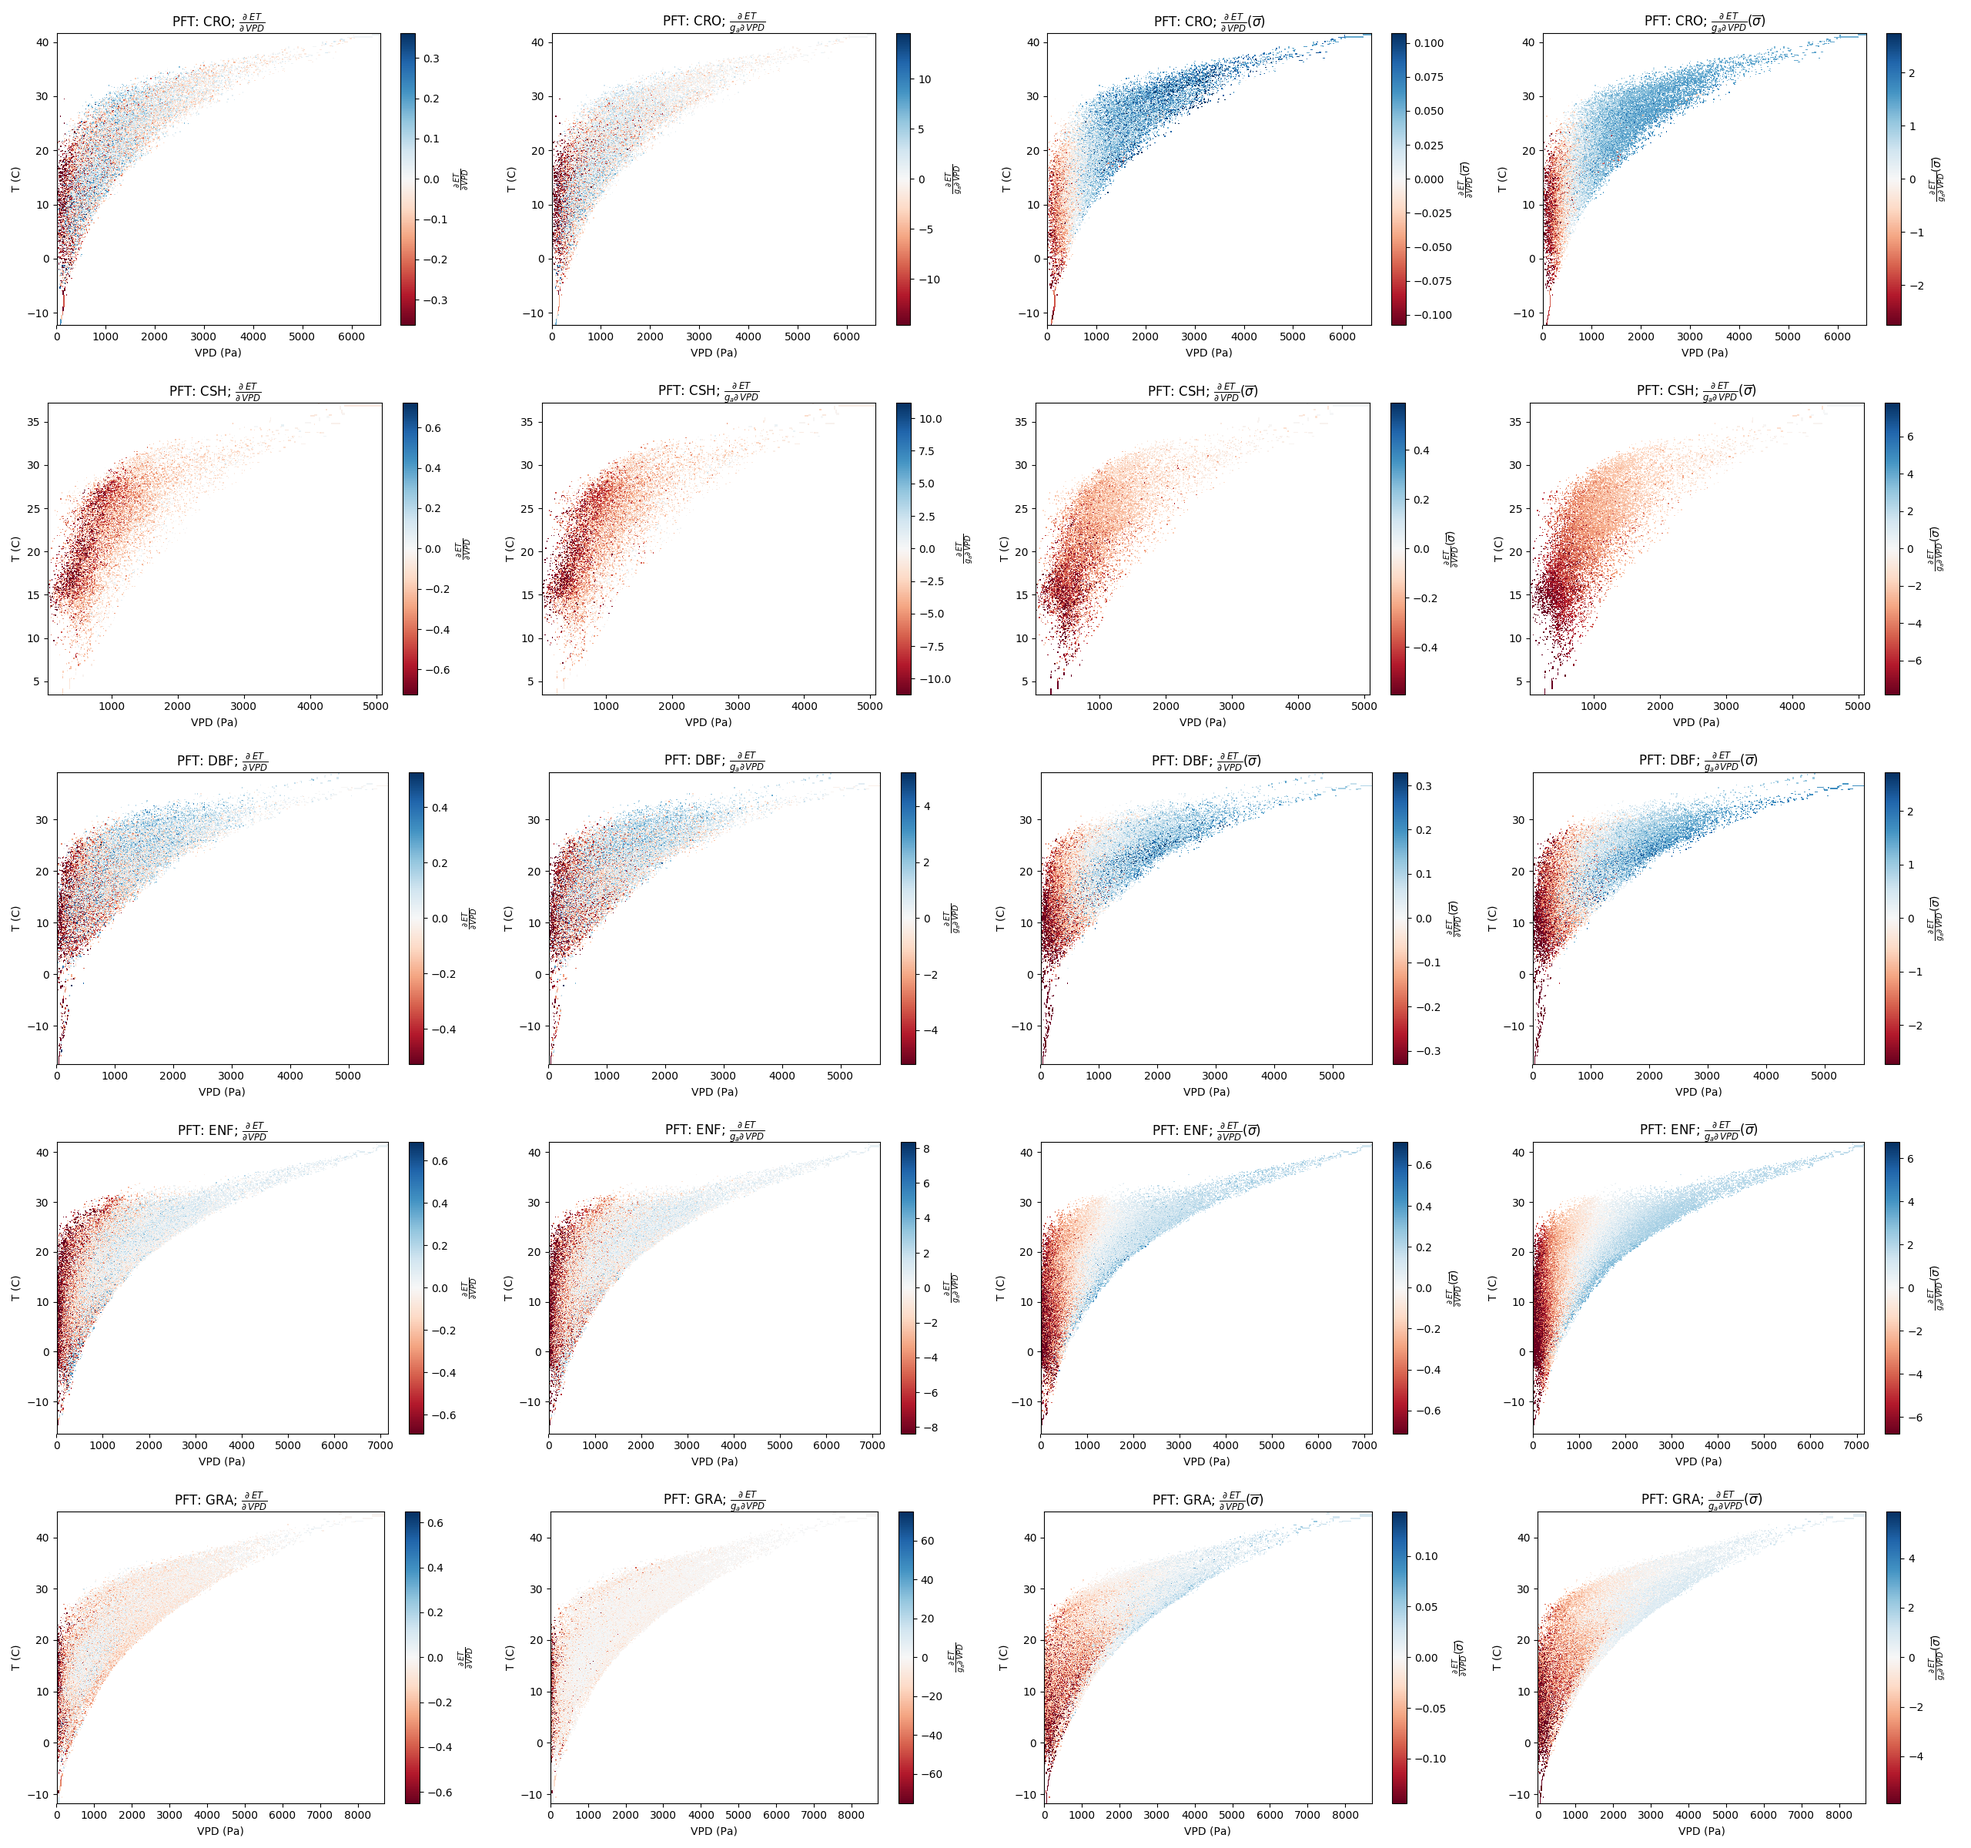
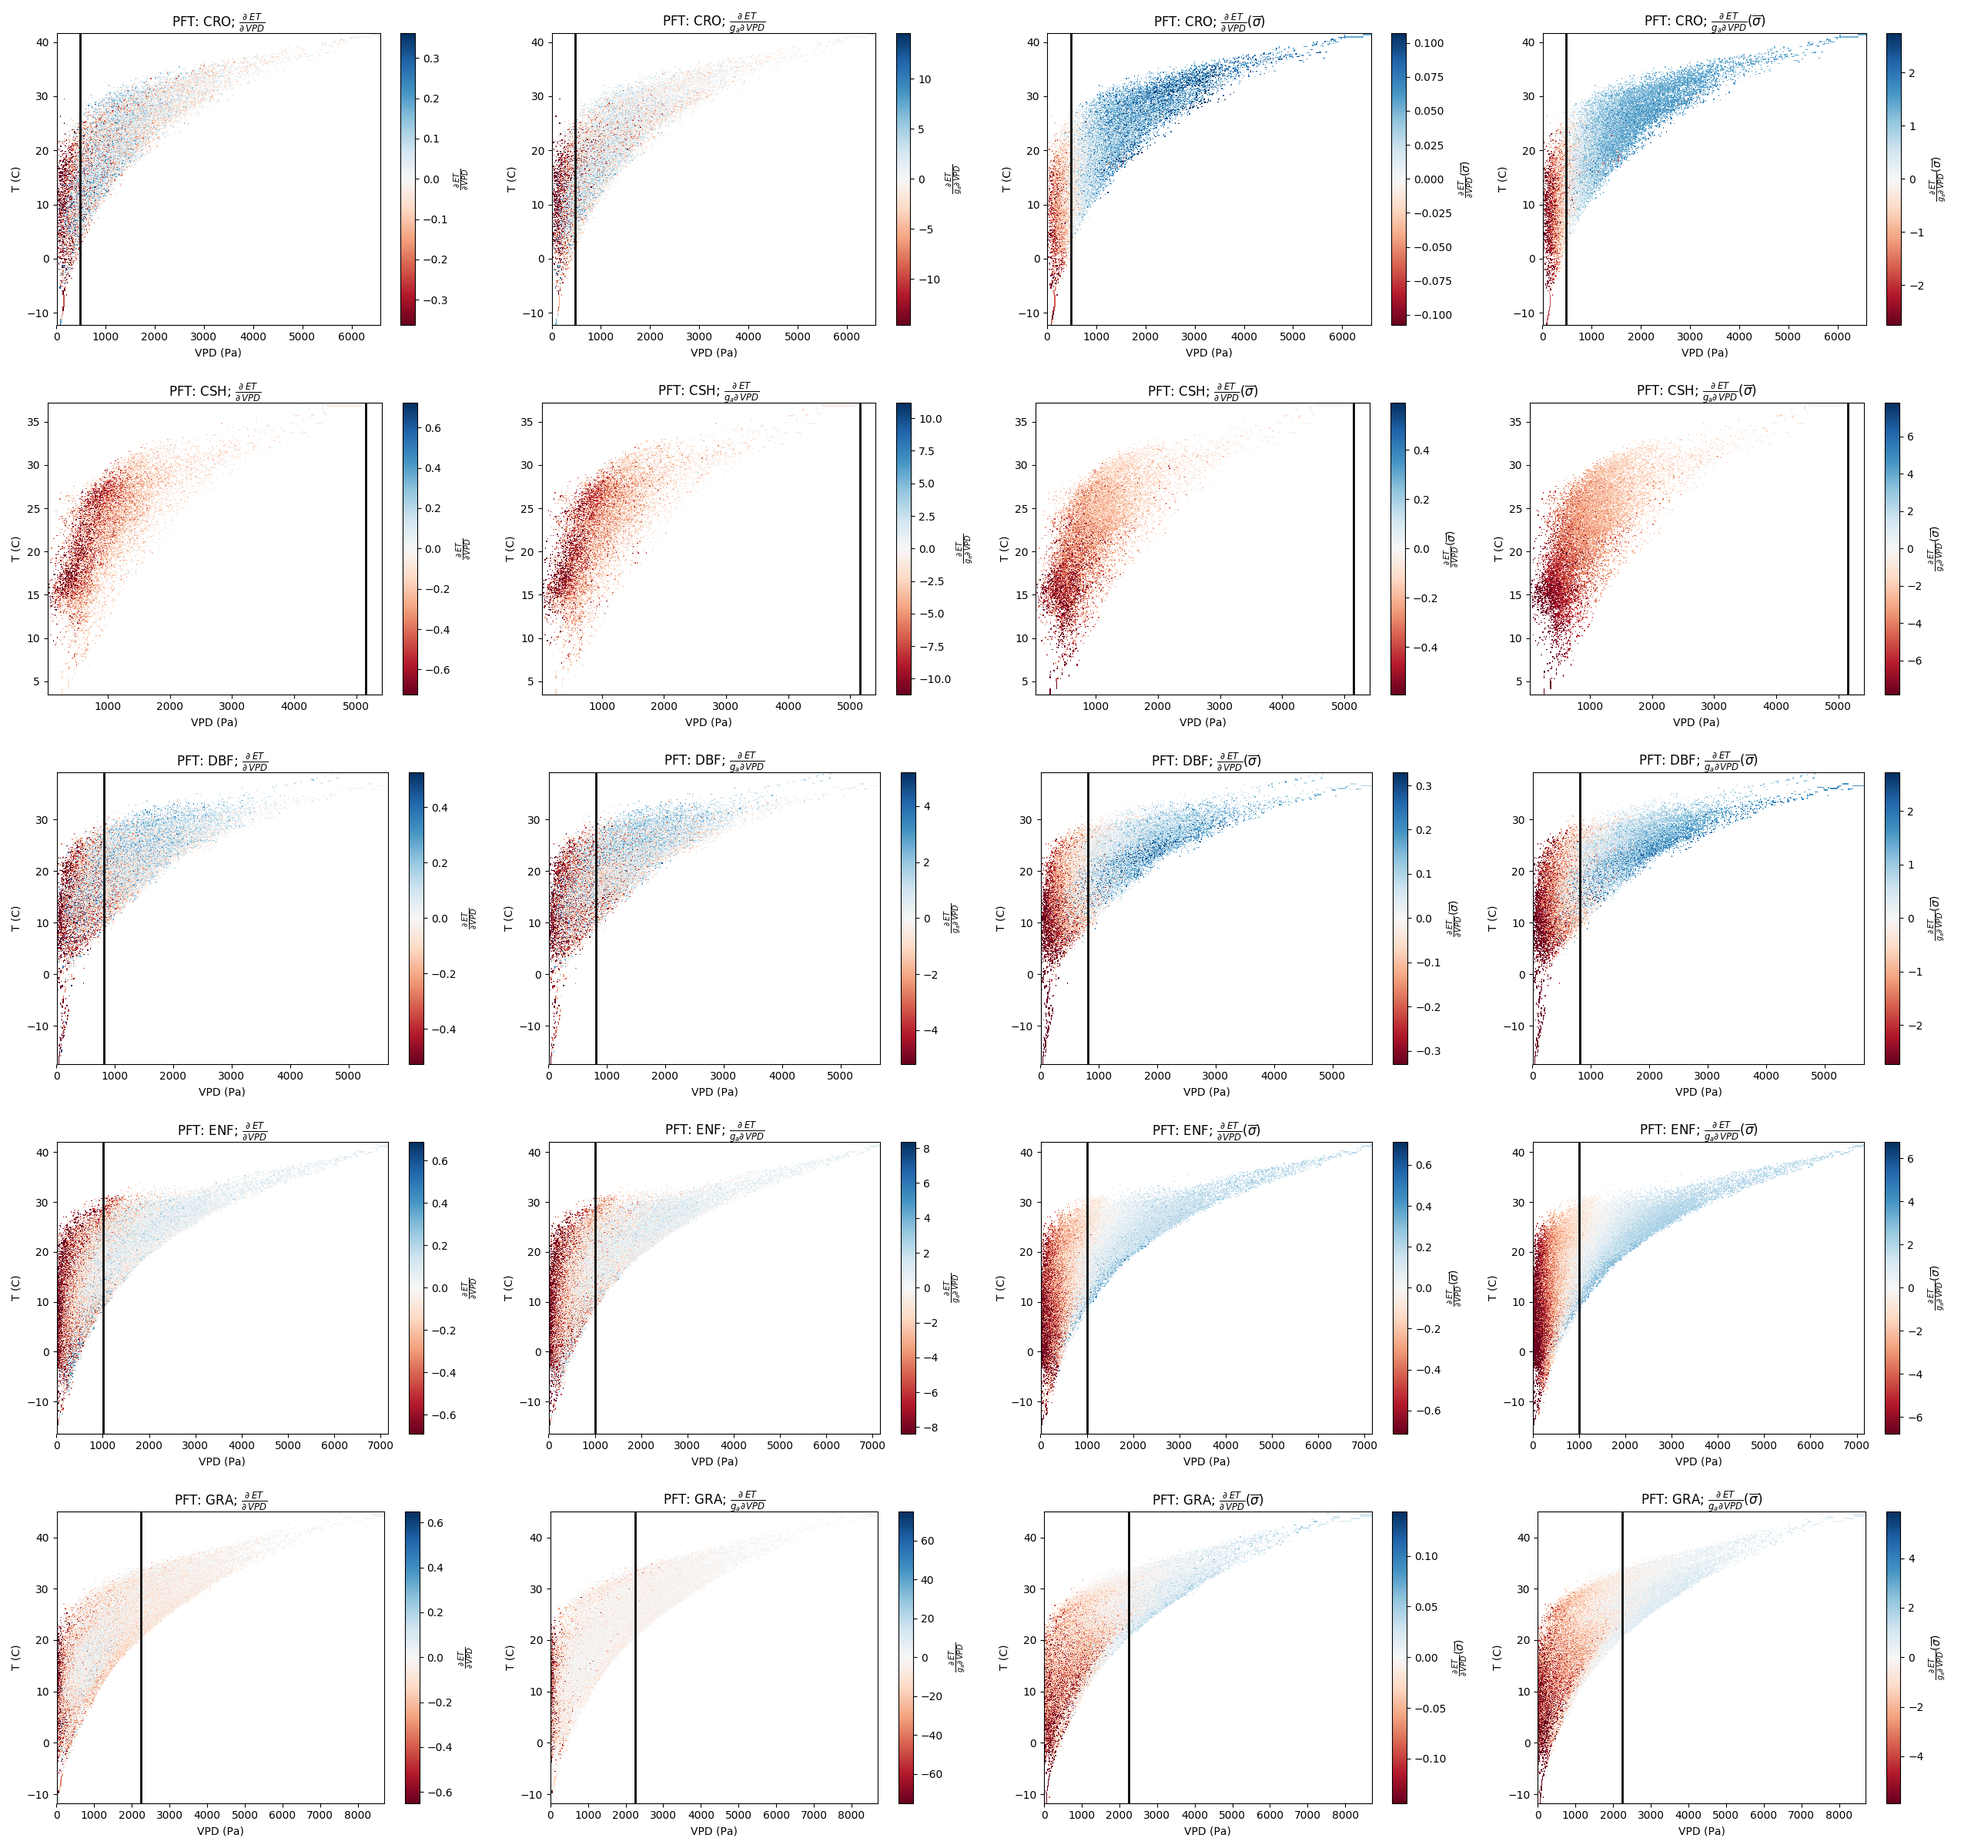
confirmed agu_fig, changed a little but think due to being less restrive on uncertainty (I no longer remove 'nonphysical' negative and > 100 values to increase transparency)

diff --git a/src/paper_figure_code/agu_fig.py b/src/paper_figure_code/agu_fig.py
@@ -5,7 +5,7 @@ This script makes box plot figures for code
 from shared_functions import *
 import seaborn as sns
 import importlib
-importlib.reload(pm)
+
 fontsize=18
 linewidth=2.5
 boxprops = {'linewidth' : 1.5}
@@ -32,10 +32,11 @@ paren_string = r'$\left(\frac{ c_p}{R_{air}} '\
 
 def plot_box(_df):
   """makes a box plot"""
+  mean_row = mean_df.loc[_df.pft.iloc[0], :]
   plt.close('all')
   fig = plt.figure()
   ax = fig.add_subplot(111)
-  ptiles = np.arange(5.0, 91.0, 5.9)
+  ptiles = np.arange(5.0, 91.0, 5.0)
   positions = []
   labels = []
   data = []
@@ -55,10 +56,9 @@ def plot_box(_df):
   #ax.plot(orig_xlim, [d_calc.CP/287.0, d_calc.CP/287.0], 'm--', linewidth=1.0)
   ylim = ax.get_ylim()#[-4.0, 4.0]
   vpd = np.linspace(_df.vpd.quantile(q=0.05), _df.vpd.quantile(q=0.95))
-  lai = _df.lai.mean()
-  # vpd_crit = et_min_vpd(_df.mean(), _df.lai.mean())/1.0e3
-  # ax.plot([vpd_crit, vpd_crit], ylim, 'b-', linewidth=bluelinewidth)
-  ax.plot(vpd/1.e3, term_2(_df, lai, vpd), 'b-', linewidth=bluelinewidth)
+  uwue = mean_row.uwue
+  ax.plot(vpd/1.e3, d_calc.sign(mean_row, vpd=vpd),\
+          'b-', linewidth=bluelinewidth)
   #_df.groupby(pd.cut(_df.vpd, bins=20)).apply(add_box, ax=ax)
   #_df.boxplot(column='sign', by=pd.cut(_df.vpd, bins=20), ax=ax)
   if (_df.pft.iloc[0] == 'GRA') | (_df.pft.iloc[0] == 'DBF'):
@@ -71,10 +71,10 @@ def plot_box(_df):
 
   ax.set_xlim(orig_xlim)
   if _df.pft.iloc[0] == 'ENF':
-    ax.text(1.75, 1.2, '*', horizontalalignment='center',\
+    ax.text(1.95, 1.2, '*', horizontalalignment='center',\
             verticalalignment='center', fontdict={'fontsize' : 40})
   plt.tight_layout()
-  plt.savefig('../../doc/shared_figs/%s_box.pdf' % _df.pft.iloc[0])
+  plt.savefig('../../doc/shared_figs/%s_box_garb.pdf' % _df.pft.iloc[0])
   return
 
 #_df = df.iloc[:1000, :].copy()

diff --git a/src/paper_figure_code/fig06.py b/src/paper_figure_code/fig06.py
@@ -75,6 +75,9 @@ def make_ax_plot(_ax, var, _df, meta):
                    meta['title']))
   cbar = plt.colorbar(color, ax=_ax)# , ax=_ax2)
   cbar.set_label(meta['title'])
+  y_lim = _ax.get_ylim()
+  vpd_crit = et_min_vpd(mean_df.loc[_df.pft.iloc[0], :])
+  _ax.plot(np.ones(2)*vpd_crit, np.array(y_lim), 'k-', linewidth=2.0)
   return
 
 def scatter_plot_paper(_df, meta):

diff --git a/src/paper_figure_code/shared_functions.py b/src/paper_figure_code/shared_functions.py
@@ -30,7 +30,7 @@ df = dfs['full']
 mean_df = dfs['mean']
 
 def et_min_vpd(_df, uwue=None):
-  """calculates theoretical max vpd as functoin of -df and lai"""
+  """calculates theoretical vpd_crit as functoin of -df and lai"""
   if uwue is None:
     uwue = _df.uwue
   c3 = d_calc.CP/_df.r_moist
